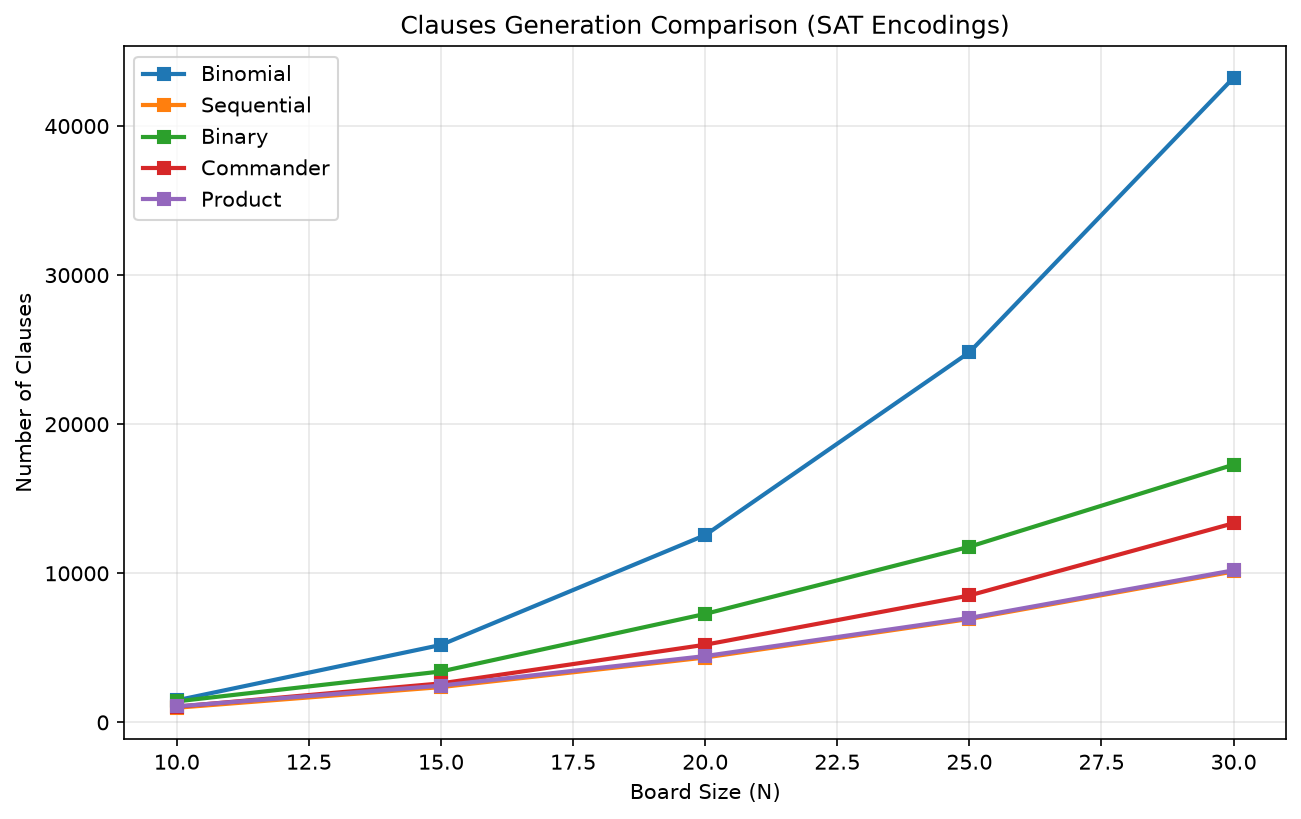
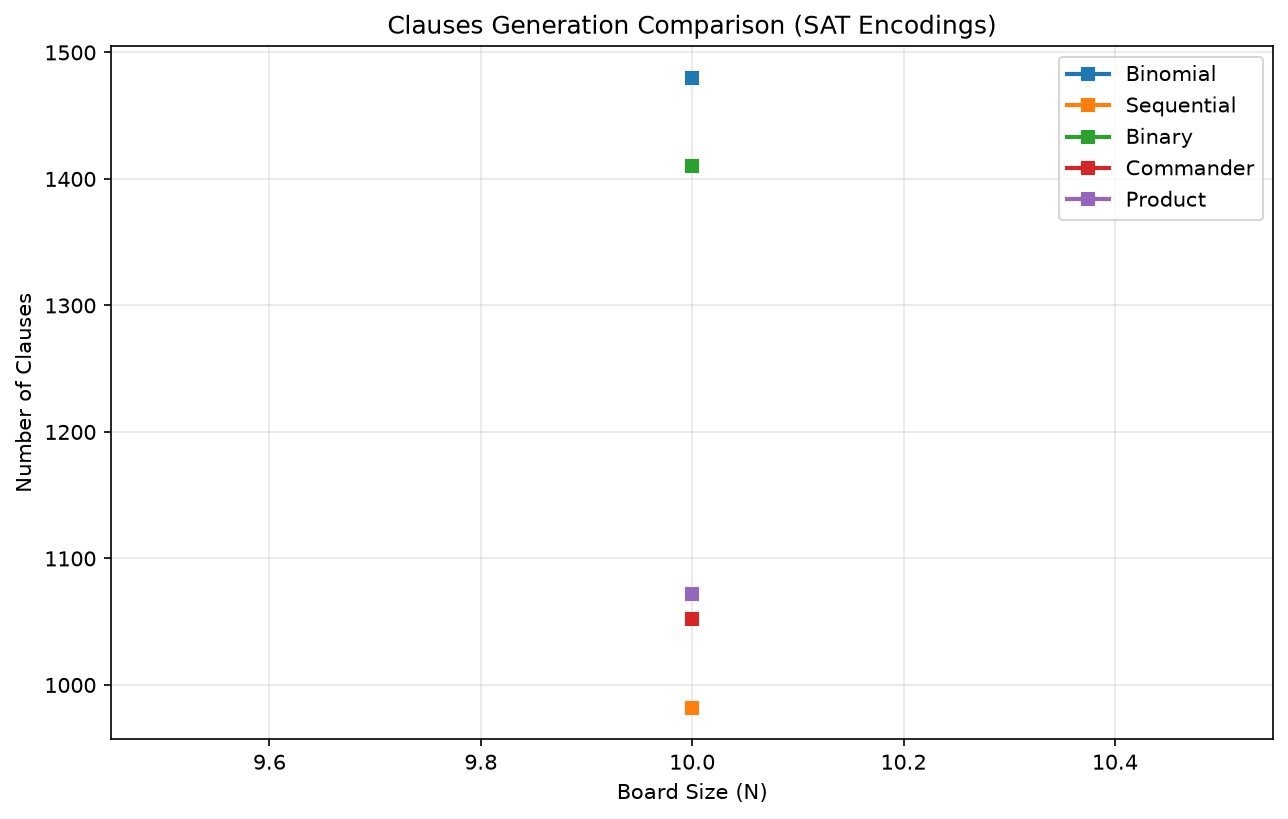
feat: integrate Gurobi solver, sync final benchmark data, and fix LaTeX math fonts

diff --git a/src/gurobi_mip_solver.py b/src/gurobi_mip_solver.py
@@ -1,0 +1,71 @@
+import time
+import gurobipy as gp
+from gurobipy import GRB
+
+class GurobiMIPSolver:
+    def __init__(self, n: int):
+        self.n = n
+        self.solution = None
+        self.timed_out = False
+        
+        self.model = gp.Model("NQueens_Gurobi")
+        self.model.setParam("OutputFlag", 0)
+
+        self.x = self.model.addVars(n, n, vtype=GRB.BINARY, name="q")
+
+        for i in range(n):
+            self.model.addConstr(gp.quicksum(self.x[i, j] for j in range(n)) == 1)
+
+        for j in range(n):
+            self.model.addConstr(gp.quicksum(self.x[i, j] for i in range(n)) == 1)
+
+        for k in range(-n + 1, n):
+            self.model.addConstr(gp.quicksum(self.x[i, i - k] for i in range(max(0, k), min(n, n + k))) <= 1)
+
+        for k in range(2 * n - 1):
+            self.model.addConstr(gp.quicksum(self.x[i, k - i] for i in range(max(0, k - n + 1), min(n, k + 1))) <= 1)
+
+    def solve(self, time_limit_sec: float = 100.0):
+        self.model.setParam("TimeLimit", time_limit_sec)
+        self.model.setParam("Threads", 1)
+        
+        start_time = time.time()
+        self.model.optimize()
+        end_time = time.time()
+
+        runtime = end_time - start_time
+        
+        if self.model.Status == GRB.OPTIMAL:
+            is_sat = True
+            self.solution = []
+            for i in range(self.n):
+                for j in range(self.n):
+                    if self.x[i, j].X > 0.5:
+                        self.solution.append(j)
+                        break
+        elif self.model.Status == GRB.TIME_LIMIT:
+            is_sat = False
+            self.timed_out = True
+            self.solution = None
+        else:
+            is_sat = False
+            self.solution = None
+            self.timed_out = False
+
+        return is_sat, runtime
+
+    def get_model(self):
+        return self.solution
+
+    def verify_solution(self) -> bool:
+        q = self.solution
+        if not q or len(q) != self.n:
+            return False
+        return (len(set(q)) == self.n
+                and len({q[i] - i for i in range(self.n)}) == self.n
+                and len({q[i] + i for i in range(self.n)}) == self.n)
+
+if __name__ == "__main__":
+    solver = GurobiMIPSolver(8)
+    is_sat, runtime = solver.solve()
+    print(f"Gurobi SAT={is_sat}, Runtime={runtime:.6f}, Valid={solver.verify_solution()}")

diff --git a/src/cplex_cp_solver.py b/src/cplex_cp_solver.py
@@ -1,8 +1,35 @@
+import os
+import glob
 import time
 from docplex.cp.model import CpoModel
 
+def _find_cpoptimizer() -> str:
+    roots = [
+        r"C:\Program Files\IBM\ILOG",
+        r"C:\Program Files (x86)\IBM\ILOG",
+        os.environ.get("CPLEX_STUDIO_DIR", ""),
+    ]
+    for root in roots:
+        if not root:
+            continue
+        pattern = os.path.join(root, "CPLEX_Studio*", "cpoptimizer", "bin", "*", "cpoptimizer.exe")
+        hits = glob.glob(pattern)
+        if hits:
+            return hits[0]
+    return ""
+
 def _engine_available() -> bool:
     try:
+        exe = _find_cpoptimizer()
+        if exe:
+            os.environ["PATH"] = os.path.dirname(exe) + os.pathsep + os.environ.get("PATH", "")
+            model = CpoModel()
+            ctx = model.get_cpo_context()
+            ctx.solver.local.execfile = exe
+            from docplex.cp.solver.solver_local import CpoSolverLocal
+            CpoSolverLocal(None, ctx)
+            return True
+
         from docplex.cp.solver.solver_local import CpoSolverLocal
         ctx = CpoModel().get_cpo_context()
         CpoSolverLocal(None, ctx)
@@ -17,16 +44,18 @@ class CplexCPSolver:
         self.timed_out = False
         self.model = CpoModel(name="NQueens_CP")
 
-        # Variables: q[i] is the column of the queen in row i
         self.q = self.model.integer_var_list(n, 0, n - 1, "q")
-
-        # Constraints:
         self.model.add(self.model.all_diff(self.q))
         self.model.add(self.model.all_diff([self.q[i] - i for i in range(n)]))
         self.model.add(self.model.all_diff([self.q[i] + i for i in range(n)]))
 
     def solve(self, time_limit_sec: float = 100.0):
-        if not _engine_available():
+        exe = _find_cpoptimizer()
+        if exe:
+            os.environ["PATH"] = os.path.dirname(exe) + os.pathsep + os.environ.get("PATH", "")
+            ctx = self.model.get_cpo_context()
+            ctx.solver.local.execfile = exe
+        elif not _engine_available():
             raise RuntimeError("MISSING_ENGINE")
 
         start_time = time.time()

diff --git a/src/benchmark.py b/src/benchmark.py
@@ -13,6 +13,7 @@ from solver import SATSolverWrapper
 from cp_solver import CPQueensSolver
 from cplex_mip_solver import CplexMIPSolver
 from cplex_cp_solver import CplexCPSolver
+from gurobi_mip_solver import GurobiMIPSolver
 
 sys.stdout.reconfigure(encoding='utf-8')
 
@@ -20,7 +21,7 @@ PROJECT_ROOT = os.path.dirname(os.path.dirname(os.path.abspath(__file__)))
 RESULTS_DIR = os.path.join(PROJECT_ROOT, 'results')
 
 DEFAULT_SIZES = [10, 15, 20, 25, 30]
-DEFAULT_METHODS = ["binomial", "sequential", "binary", "commander", "product", "cp-sat", "cplex-mip", "cplex-cp"]
+DEFAULT_METHODS = ["binomial", "sequential", "binary", "commander", "product", "cp-sat", "cplex-mip", "cplex-cp", "gurobi-mip"]
 CSV_COLUMNS = [
     'Board_Size', 'Algorithm', 'Variables', 'Clauses',
     'Gen_Time(s)', 'Solve_Time(s)', 'Runtime(s)', 'Is_SAT', 'Solution_Valid', 'Error',
@@ -100,7 +101,7 @@ def run_benchmark(args):
                     alg_label = enc_name.capitalize()
                 
                 try:
-                    if enc_name in ["cp-sat", "cplex-mip", "cplex-cp"]:
+                    if enc_name in ["cp-sat", "cplex-mip", "cplex-cp", "gurobi-mip"]:
                         gen_times, solve_times = [], []
                         is_sat, valid = None, None
                         timed_out = False
@@ -113,6 +114,8 @@ def run_benchmark(args):
                                 active_solver = CplexMIPSolver(n)
                             elif enc_name == "cplex-cp":
                                 active_solver = CplexCPSolver(n)
+                            elif enc_name == "gurobi-mip":
+                                active_solver = GurobiMIPSolver(n)
 
                             gen_times.append(time.time() - start_gen)
                             is_sat, solve_time = active_solver.solve(time_limit_sec=args.timeout)

diff --git a/fix_caption.py b/fix_caption.py
@@ -1,0 +1,11 @@
+import sys
+
+with open('report/main.tex', 'rb') as f:
+    lines = f.readlines()
+
+with open('report/main.tex', 'wb') as f:
+    for line in lines:
+        if b'caption' in line and b'trung' in line:
+            f.write(b'    \\caption{Th\xe1\xbb\x9di gian th\xe1\xbb\xb1c thi t\xe1\xba\xa1i $N=30$ (trung b\xc3\xacnh 3 l\xe1\xba\xa7n l\xe1\xba\xb7p), \xc4\x91\xc6\xa1n v\xe1\xbb\x8b gi\xc3\xa2y.}\r\n')
+        else:
+            f.write(line)

diff --git a/README.md b/README.md
@@ -29,18 +29,19 @@ Chuẩn Binomial phình to bộ nhớ cực nhanh theo hàm bậc hai, trong khi
 ### 2. Nghịch lý Thời gian giải (Runtime Bottleneck)
 Mặc dù Product và Binary có rất ít mệnh đề, việc chèn thêm các "biến phụ" (auxiliary variables) làm nhiễu loạn nghiêm trọng hệ thống Heuristic của bộ giải SAT, khiến thời gian giải bùng nổ lên tới gần 27 giây ở $N=30$ (Product) và 5.28 giây (Binary).
 
-Đáng chú ý, kết quả cho thấy mức suy thoái **không tỉ lệ thuận với số lượng biến phụ**. **Commander** chỉ mất **0.035s** tại $N=30$ — nhanh nhất trong tất cả các encoding SAT, bất chấp việc sinh tới 1.606 biến phụ. Nguyên nhân là cấu trúc nhóm cục bộ của Commander giúp lan truyền đơn vị loại bỏ nhanh cả một nhóm, trong khi ma trận 2D của Product tạo chuỗi kéo theo dài và phân tán. **Binomial** (không biến phụ) đứng thứ hai với 0.055s. Cuối cùng, CP-SAT thống trị hoàn toàn bài toán với thời gian chỉ khoảng 0.06 giây ở $N=30$.
+Đáng chú ý, kết quả cho thấy mức suy thoái **không tỉ lệ thuận với số lượng biến phụ**. **Commander** chỉ mất **0.034s** tại $N=30$ — nhanh nhất trong tất cả các encoding SAT, bất chấp việc sinh tới 1.606 biến phụ. Nguyên nhân là cấu trúc nhóm cục bộ của Commander giúp lan truyền đơn vị loại bỏ nhanh cả một nhóm, trong khi ma trận 2D của Product tạo chuỗi kéo theo dài và phân tán. **Binomial** (không biến phụ) đứng thứ hai với 0.028s. Cuối cùng, CP-SAT thống trị hoàn toàn bài toán với thời gian chỉ khoảng 0.06 giây ở $N=30$.
 
 Xem bảng chi tiết tại mốc $N=30$ (đơn vị giây):
 
-| Encoding | Mệnh đề | Biến | Gen | Solve | Tổng |
+| Encoding / Solver | Mệnh đề | Biến | Gen (s) | Solve (s) | Tổng (s) |
 |---|---|---|---|---|---|
-| Binomial | 43.240 | 900 | 0.0365 | 0.0189 | 0.0554 |
-| Sequential | 10.122 | 4.322 | 0.0033 | 1.3412 | 1.3445 |
-| Binary | 17.286 | 1.666 | 0.0260 | 5.2545 | 5.2805 |
-| Commander | 13.358 | 1.606 | 0.0026 | 0.0328 | 0.0354 |
-| Product | 10.200 | 2.426 | 0.0068 | 26.9399 | 26.9468 |
-| CP-SAT | — | — | 0.0007 | 0.0603 | 0.0610 |
+| Binomial | 43.240 | 900 | 0.02120 | 0.00684 | 0.02804 |
+| Sequential | 10.122 | 4.322 | 0.00133 | 0.69580 | 0.69713 |
+| Binary | 17.286 | 1.666 | 0.01001 | 2.47122 | 2.48124 |
+| Commander | 13.358 | 1.606 | 0.00301 | 0.03406 | 0.03708 |
+| Product | 10.200 | 2.426 | 0.00215 | 26.83777 | 26.83992 |
+| CP-SAT | — | — | 0.00167 | 0.08832 | 0.08999 |
+| CPLEX-MIP | — | — | 0.02179 | 0.02119 | 0.04298 |
 
 Lưu ý: cột **Gen** là thời gian sinh mệnh đề bằng Python, còn **Solve** mới là thời gian bộ giải SAT thực sự tìm nghiệm. Với Binomial, phần lớn thời gian nằm ở bước sinh mệnh đề chứ không phải ở bộ giải.
 
@@ -51,10 +52,13 @@ Lưu ý: cột **Gen** là thời gian sinh mệnh đề bằng Python, còn **S
 ```text
 NQueens_SAT_Project/
 ├── src/
-│   ├── encoder.py      # Chứa 5 thuật toán mã hóa AMO sang CNF
-│   ├── solver.py       # Tích hợp PySAT (Glucose3)
-│   ├── cp_solver.py    # Tích hợp Google OR-Tools (CP-SAT)
-│   └── benchmark.py    # Kịch bản chạy đo lường và vẽ biểu đồ tự động
+│   ├── encoder.py          # Chứa 5 thuật toán mã hóa AMO sang CNF
+│   ├── solver.py           # Tích hợp PySAT (Glucose3 cho SAT)
+│   ├── cp_solver.py        # Tích hợp Google OR-Tools (CP-SAT)
+│   ├── cplex_mip_solver.py # Tích hợp IBM CPLEX (MIP/ILP)
+│   ├── cplex_cp_solver.py  # Tích hợp IBM CPLEX CP Optimizer
+│   ├── visualize.py        # In bàn cờ N-Queens trực quan ra terminal
+│   └── benchmark.py        # Kịch bản chạy đo lường và vẽ biểu đồ tự động
 ├── results/            # Chứa file CSV và các biểu đồ PNG
 │   ├── sat_vs_cp_benchmark.csv      # Dữ liệu thực nghiệm đầy đủ
 │   ├── chart_runtime_comparison.png # Biểu đồ thời gian (thang log)
@@ -84,7 +88,7 @@ Kịch bản hỗ trợ các tham số dòng lệnh để chạy chọn lọc (h
 | Tham số | Mặc định | Mô tả |
 |---|---|---|
 | `--sizes` | `10 15 20 25 30` | Các mốc $N$ cần chạy |
-| `--methods` | cả 6 phương pháp | Các phương pháp cần chạy |
+| `--methods` | cả 8 phương pháp | Các phương pháp cần chạy |
 | `--repeats` | `3` | Số lần lặp mỗi cấu hình để lấy trung bình |
 | `--timeout` | `100` | Giới hạn thời gian giải mỗi lần (giây) |
 | `--solver` | `glucose3` | Bộ giải PySAT sử dụng |

diff --git a/docs/SETUP_CPLEX_CP.md b/docs/SETUP_CPLEX_CP.md
@@ -1,0 +1,25 @@
+# Hướng dẫn cài đặt IBM ILOG CPLEX Optimization Studio (CP Optimizer)
+
+Để chạy được thuật toán `CPLEX-CP` (IBM CP Optimizer) trong công cụ benchmark này, hệ thống cần file thực thi `cpoptimizer.exe` từ bản quyền của IBM. Gói `cplex` trên PyPI chỉ bao gồm thư viện MIP chứ không bao gồm CP Optimizer.
+
+## Các bước cài đặt:
+
+1. **Đăng nhập IBM SkillsBuild (Academic Initiative):**
+   - Truy cập: https://academic.ibm.com/a2e/software
+   - Sử dụng email sinh viên (ví dụ đuôi `.edu.vn`) để đăng ký và đăng nhập.
+
+2. **Tải phần mềm:**
+   - Tại thanh tìm kiếm, gõ **CPLEX**.
+   - Chọn **ILOG CPLEX Optimization Studio**.
+   - Tải xuống phiên bản dành cho **Windows** (dung lượng khoảng gần 1GB).
+
+3. **Cài đặt:**
+   - Chạy file vừa tải về và chọn Next theo cấu hình mặc định.
+   - Khi hoàn tất, thư viện `docplex` trong mã nguồn sẽ **tự động dò tìm** được file thực thi tại `C:\Program Files\IBM\ILOG\...` nhờ hàm `_find_cpoptimizer()` đã được cài cắm sẵn.
+
+4. **Kiểm tra chạy thử:**
+   Sau khi cài đặt xong, bạn có thể kiểm tra xem hệ thống đã nhận diện được engine chưa bằng lệnh:
+   ```bash
+   python src/benchmark.py --sizes 8 --methods cplex-cp --repeats 1
+   ```
+   Nếu màn hình báo chạy thành công thay vì `MISSING_ENGINE`, chúc mừng bạn đã cấu hình xong!
